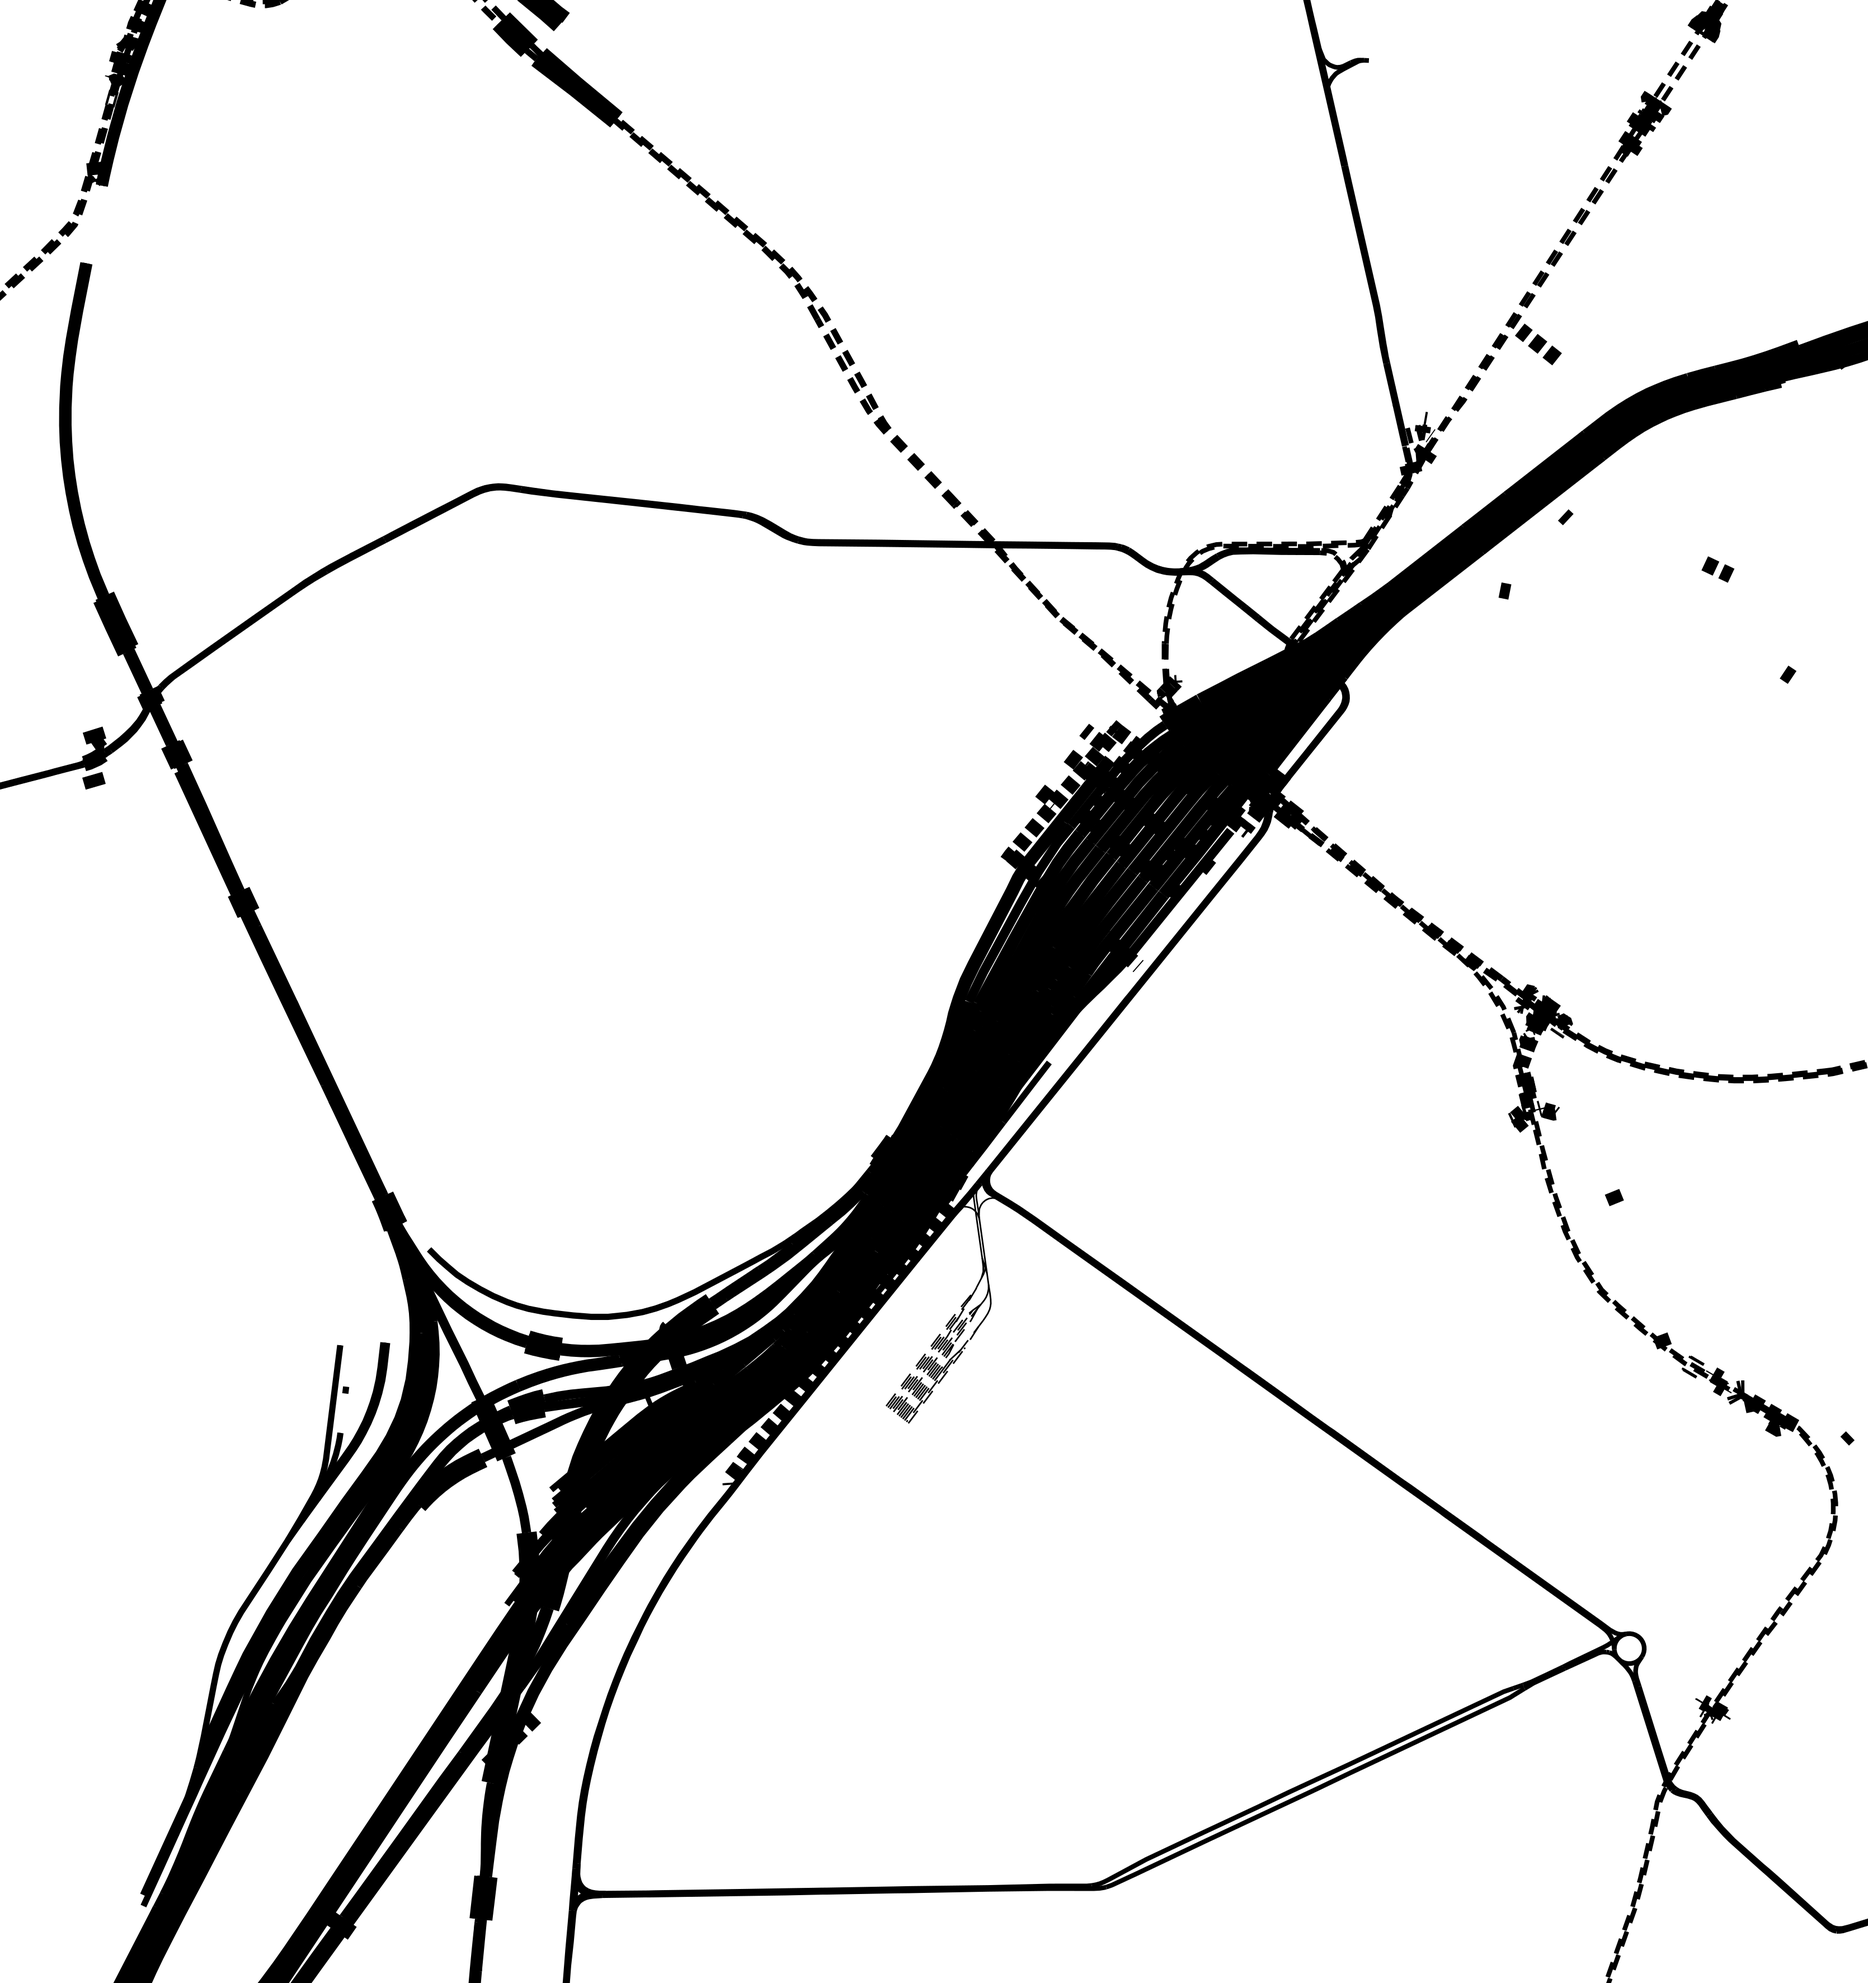
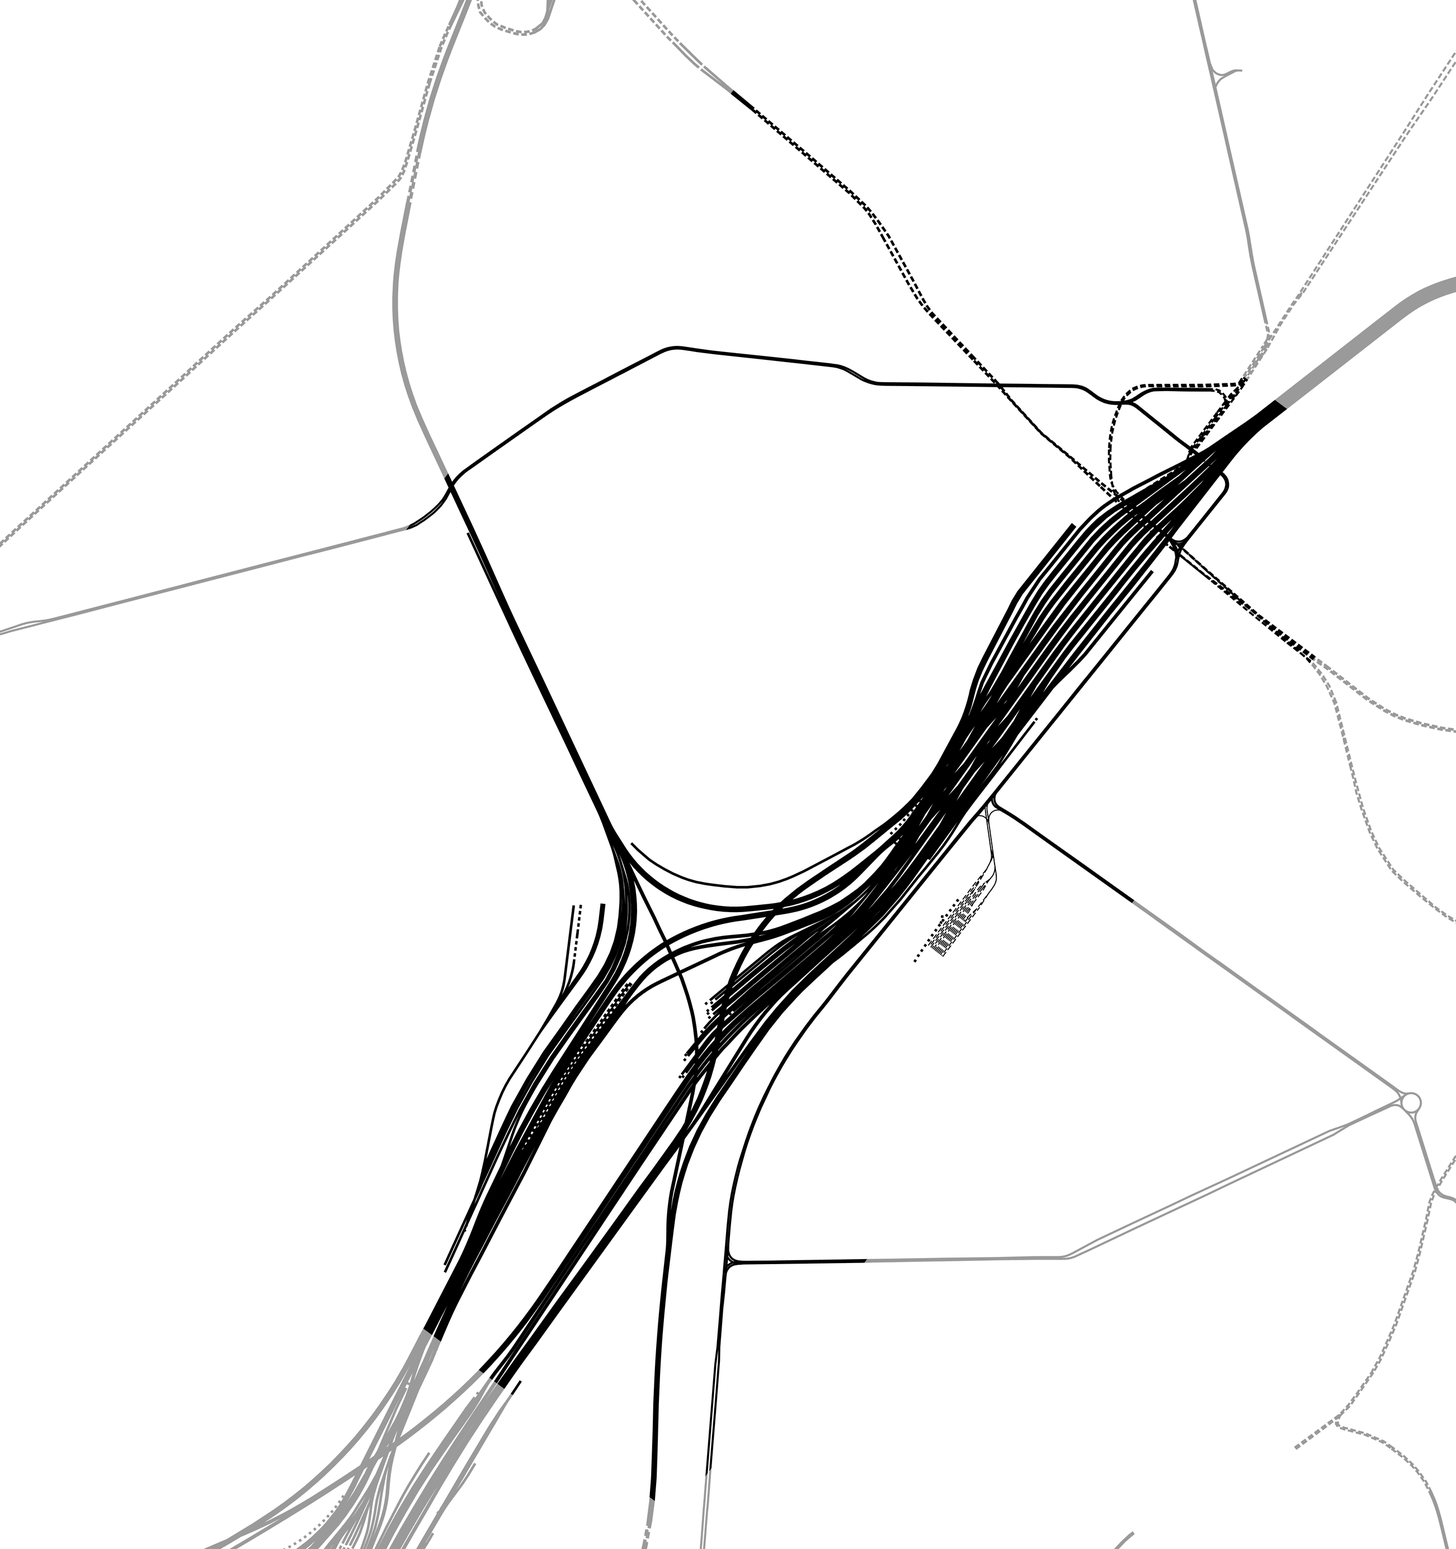
continue act presentation

diff --git a/act.html b/act.html
@@ -169,15 +169,15 @@
 				<section>
 				  	<section> 
 				    <div class="r-hstack">  
-              <img src="assets/act/nolli.png" height="500">
+              <img src="assets/act/map/nolli.png" height="500">
               <div>
                 <p style="line-height:1.0; font-size:20px; letter-spacing: -0px; font-family: 'Roboto', sans-serif">
                   &emsp;<b>FULL:</b><br>
-				          &emsp;54.1%
+				          &emsp;32.5%
                 </p>
                 <p style="line-height:1.0; font-size:20px; letter-spacing: -0px; font-family: 'Roboto', sans-serif">
                   &emsp;<b>EMPTY:</b><br>
-				          &emsp;45.9%
+				          &emsp;67.5%
                 </p>
               </div>
             </div>
@@ -185,18 +185,21 @@
 				    
 				  	<section> 
 				    <div class="r-hstack">  
-              <img src="assets/act/acc.png" height="500">
+              <img src="assets/act/map/acc.png" height="500">
               <div>
                 <p style="line-height:1.0; font-size:20px; letter-spacing: -0px; font-family: 'Roboto', sans-serif">
                   &emsp;&emsp;<b>VOID:</b><br>
-				         &emsp;&emsp;10.2%
+				         &emsp;&emsp;15.1%
                 </p>
               </div>
             </div>
           </section>
 				      
 				  <section>
-				    <img src="assets/act/heatmap.png" height="500" >
+				    <div class="r-hstack">
+				      <img src="assets/act/map/heatmap.png" height="500" >
+				      <p>&emsp;</p>
+				      <img src="assets/act/map/legend.png" height="135" >
 				  </section>
 				    
 				  	<section>
@@ -205,7 +208,7 @@
                 <img src="assets/act/map/built.png" height="380">
                 <div>
                   <p style="line-height:0.1; font-size:25px; letter-spacing: -0px; font-family: 'Roboto', sans-serif">
-                    65.9%
+                    35.1%
                   </p>
                   <p style="line-height:1.0; font-size:40px; letter-spacing: -0px; font-family: 'Roboto', sans-serif">
                     BUILT
@@ -216,7 +219,7 @@
                 <img src="assets/act/map/street.png" height="380">
                 <div>
                   <p style="line-height:0.1; font-size:25px; letter-spacing: -0px; font-family: 'Roboto', sans-serif">
-                    32.1%
+                    19.0%
                   </p>
                   <p style="line-height:1.0; font-size:40px; letter-spacing: -0px; font-family: 'Roboto', sans-serif">
                     STREET
@@ -231,7 +234,7 @@
                 <img src="assets/act/map/industrial.png" height="380">
                 <div>
                   <p style="line-height:0.1; font-size:25px; letter-spacing: -0px; font-family: 'Roboto', sans-serif">
-                    12.2%
+                    17.6%
                   </p>
                   <p style="line-height:1.0; font-size:40px; letter-spacing: -0px; font-family: 'Roboto', sans-serif">
                     INDUSTRIAL
@@ -242,7 +245,7 @@
                 <img src="assets/act/map/rails.png" height="380">
                 <div>
                   <p style="line-height:0.1; font-size:25px; letter-spacing: -0px; font-family: 'Roboto', sans-serif">
-                    9.5%
+                    9.2%
                   </p>
                   <p style="line-height:1.0; font-size:40px; letter-spacing: -0px; font-family: 'Roboto', sans-serif">
                     RAILS
@@ -257,7 +260,7 @@
                 <img src="assets/act/map/green.png" height="380">
                 <div>
                   <p style="line-height:0.1; font-size:25px; letter-spacing: -0px; font-family: 'Roboto', sans-serif">
-                    5.9%
+                    6.8%
                   </p>
                   <p style="line-height:1.0; font-size:40px; letter-spacing: -0px; font-family: 'Roboto', sans-serif">
                     GREEN
@@ -265,13 +268,13 @@
                 </div>
               </div>
 				    	  <div>
-                <img src="assets/act/map/community.png" height="380">
+                <img src="assets/act/map/commercial.png" height="380">
                 <div>
                   <p style="line-height:0.1; font-size:25px; letter-spacing: -0px; font-family: 'Roboto', sans-serif">
-                    4.0%
+                    4.2%
                   </p>
                   <p style="line-height:1.0; font-size:40px; letter-spacing: -0px; font-family: 'Roboto', sans-serif">
-                    COMMUNITY
+                    COMMERCIAL
                   </p>
                 </div>
               </div>
@@ -280,13 +283,13 @@
 				  	<section>
 				  	  <div class="r-hstack">
 				  	    <div>
-                <img src="assets/act/map/tunnel_senne.png" height="380">
+                <img src="assets/act/map/community.png" height="380">
                 <div>
                   <p style="line-height:0.1; font-size:25px; letter-spacing: -0px; font-family: 'Roboto', sans-serif">
-                    2.7%
+                    3.2%
                   </p>
                   <p style="line-height:1.0; font-size:40px; letter-spacing: -0px; font-family: 'Roboto', sans-serif">
-                    SENNE TUNNEL
+                    COMMUNITY
                   </p>
                 </div>
               </div>
@@ -294,10 +297,10 @@
                 <img src="assets/act/map/square.png" height="380">
                 <div>
                   <p style="line-height:0.1; font-size:25px; letter-spacing: -0px; font-family: 'Roboto', sans-serif">
-                    2.1%
+                    2.9%
                   </p>
                   <p style="line-height:1.0; font-size:40px; letter-spacing: -0px; font-family: 'Roboto', sans-serif">
-                    SQUARE
+                    WATER
                   </p>
                 </div>
               </div>
@@ -309,10 +312,10 @@
                 <img src="assets/act/map/commercial.png" height="380">
                 <div>
                   <p style="line-height:0.1; font-size:25px; letter-spacing: -0px; font-family: 'Roboto', sans-serif">
-                    1.8%
+                    2.4%
                   </p>
                   <p style="line-height:1.0; font-size:40px; letter-spacing: -0px; font-family: 'Roboto', sans-serif">
-                    COMMERCIAL
+                    BROWNFIELD
                   </p>
                 </div>
               </div>
@@ -320,7 +323,7 @@
                 <img src="assets/act/map/parking.png" height="380">
                 <div>
                   <p style="line-height:0.1; font-size:25px; letter-spacing: -0px; font-family: 'Roboto', sans-serif">
-                    1.7%
+                    2.3%
                   </p>
                   <p style="line-height:1.0; font-size:40px; letter-spacing: -0px; font-family: 'Roboto', sans-serif">
                     PARKING
@@ -338,7 +341,7 @@
                     1.7%
                   </p>
                   <p style="line-height:1.0; font-size:40px; letter-spacing: -0px; font-family: 'Roboto', sans-serif">
-                    BROWNFIELD
+                    SENNE TUNNEL
                   </p>
                 </div>
               </div>
@@ -346,15 +349,111 @@
                 <img src="assets/act/map/water.png" height="380">
                 <div>
                   <p style="line-height:0.1; font-size:25px; letter-spacing: -0px; font-family: 'Roboto', sans-serif">
-                    1.6%
+                    1.0%
                   </p>
                   <p style="line-height:1.0; font-size:40px; letter-spacing: -0px; font-family: 'Roboto', sans-serif">
-                    WATER
+                    SQUARE
                   </p>
                 </div>
               </div>
           </section>
-				  
+				  	      
+				  	<section>
+				  	  <div class="r-hstack">
+				  	    <div>
+                <img src="assets/act/map/sport.png" height="380">
+                <div>
+                  <p style="line-height:0.1; font-size:25px; letter-spacing: -0px; font-family: 'Roboto', sans-serif">
+                    0.6%
+                  </p>
+                  <p style="line-height:1.0; font-size:40px; letter-spacing: -0px; font-family: 'Roboto', sans-serif">
+                    SPORT
+                  </p>
+                </div>
+              </div>
+				    	  <div>
+                <img src="assets/act/map/religion.png" height="380">
+                <div>
+                  <p style="line-height:0.1; font-size:25px; letter-spacing: -0px; font-family: 'Roboto', sans-serif">
+                    0.2%
+                  </p>
+                  <p style="line-height:1.0; font-size:40px; letter-spacing: -0px; font-family: 'Roboto', sans-serif">
+                    RELIGION
+                  </p>
+                </div>
+              </div>
+          </section>
+				  	      
+				  <section>
+					  <table>
+						  <tbody>
+							  <tr>
+								  <td>BUILT</td>
+								  <td>35.1%</td>
+							  </tr>
+							  <tr>
+								  <td>STREET</td>
+								  <td>19.0%</td>
+							  </tr>
+							  <tr>
+								  <td>INDUSTRIAL</td>
+								  <td>17.6%</td>
+							  </tr>
+						    	<tr>
+								  <td>RAILS</td>
+								  <td>9.2%</td>
+							  </tr>
+							  <tr>
+								  <td>GREEN</td>
+								  <td>6.8%</td>
+							  </tr>
+							  <tr>
+								  <td>COMMERCIAL</td>
+								  <td>4.2%</td>
+							  </tr>
+						    	<tr>
+								  <td>COMMUNITY</td>
+								  <td>3.2%</td>
+							  </tr>
+						  </tbody>
+					  </table>
+				  </section>
+				    	      
+				  <section>
+					  <table>
+						  <tbody>  
+				    	    <tr>
+								  <td>WATER</td>
+								  <td>2.9%</td>
+							  </tr>
+							  <tr>
+								  <td>BROWNFIELD</td>
+								  <td>2.4%</td>
+							  </tr>
+						    	<tr>
+								  <td>PARKING</td>
+								  <td>2.3%</td>
+							  </tr>
+							  <tr>
+								  <td>SENNE TUNNEL</td>
+								  <td>1.7%</td>
+							  </tr>
+							  <tr>
+								  <td>SQUARE</td>
+								  <td>1.0%</td>
+							  </tr>
+						    <tr>
+								  <td>SPORT</td>
+								  <td>0.6%</td>
+							  </tr>
+							  <tr>
+								  <td>RELIGION</td>
+								  <td>0.2%</td>
+							  </tr>
+				    	  </tbody>
+					  </table>
+				  </section>
+				  	       
 				  <section>
 				    <a href="https://commons.wikimedia.org/wiki/File:Jean-Baptiste_Van_Moer,_Zenne_branch_at_Borgwal,_1873,_Museum_of_the_City_of_Brussels,_inv._K_1874-1-4.jpg"><img src="assets/act/color.jpg" height="500" ></a>
 				    <a href="http://patrimoine.brussels/liens/publications-numeriques/versions-pdf/chemins-de-ronde/circuit-de-la-senne"><img src="assets/act/bw.jpg" height="500" ></a>
@@ -397,6 +496,17 @@
 				  	<section>
 				    <img src="assets/act/neufert.png" height="500" ></a>
 				  </section>
+                  
+          	<section>
+				  	  <div class="r-hstack">
+				  	    <div>
+                <img src="assets/act/place1.png" height="520">
+              </div>
+				    	  <div>
+                <img src="assets/act/place2.png" height="520">
+              </div>
+          </section>
+                  
 				</section>
 				<!-- Vertical Deck End -->
 				    

diff --git a/index.html b/index.html
@@ -47,7 +47,7 @@
             </a>
 				  </section>
 				  
-				  	<section data-background="assets/floorplan/introduction/2.svg" data-background-opacity= 0.4  data-transition="zoom" data-background-transition="zoom">
+				  	<section data-background="assets/act/thumb.png" data-background-opacity= 0.4  data-transition="zoom" data-background-transition="zoom">
             <a style="line-height:0.9; font-size:100px; letter-spacing: -3px; font-family: 'Roboto', sans-serif;" href="act.html">
               IN-BETWEEN
             </a>
